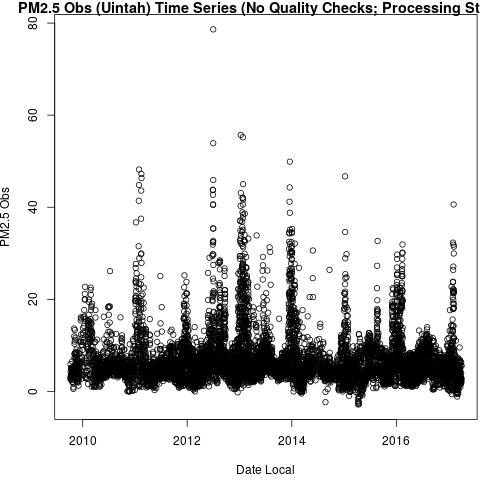
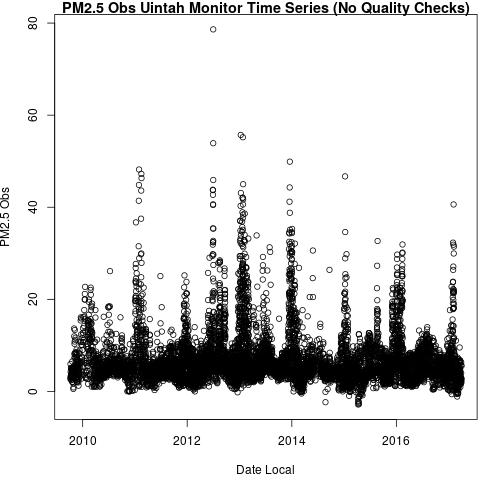
improving plots

Changed region(s): [[0.0312, 0.0, 1.0, 0.0312]]

diff --git a/LaTeX_documentation/Code_Outputs/Rgenerated_PM25Source3TSstep1Images.tex b/LaTeX_documentation/Code_Outputs/Rgenerated_PM25Source3TSstep1Images.tex
@@ -2,13 +2,13 @@
 \begin{figure} 
 \centering  
 \includegraphics[width=0.77\textwidth]{Code_Outputs/PM25Source3TSstep1_PM25_ObsvDate_Local.jpg} 
-\caption{\label{fig:PM25Source3TSstep1PM25_ObsvDate_Local}PM2.5 Obs (Uintah) Time Series (No Quality Checks; Processing Step 1)} 
+\caption{\label{fig:PM25Source3TSstep1PM25_ObsvDate_Local}Uintah Monitor Time Series (No Quality Checks; PM2.5 Processing Step 1)} 
 \end{figure} 
  
 
 \begin{figure} 
 \centering  
 \includegraphics[width=0.77\textwidth]{Code_Outputs/PM25Source3TSstep1_MapUintahLocations.jpg} 
-\caption{\label{fig:PM25Source3TSstep1MapUintahLocations}Uintah Monitor Locations (No Quality Checks; Step 1)} 
+\caption{\label{fig:PM25Source3TSstep1MapUintahLocations}Uintah Monitor Locations (No Quality Checks; PM2.5 Processing Step 1)} 
 \end{figure} 
  
